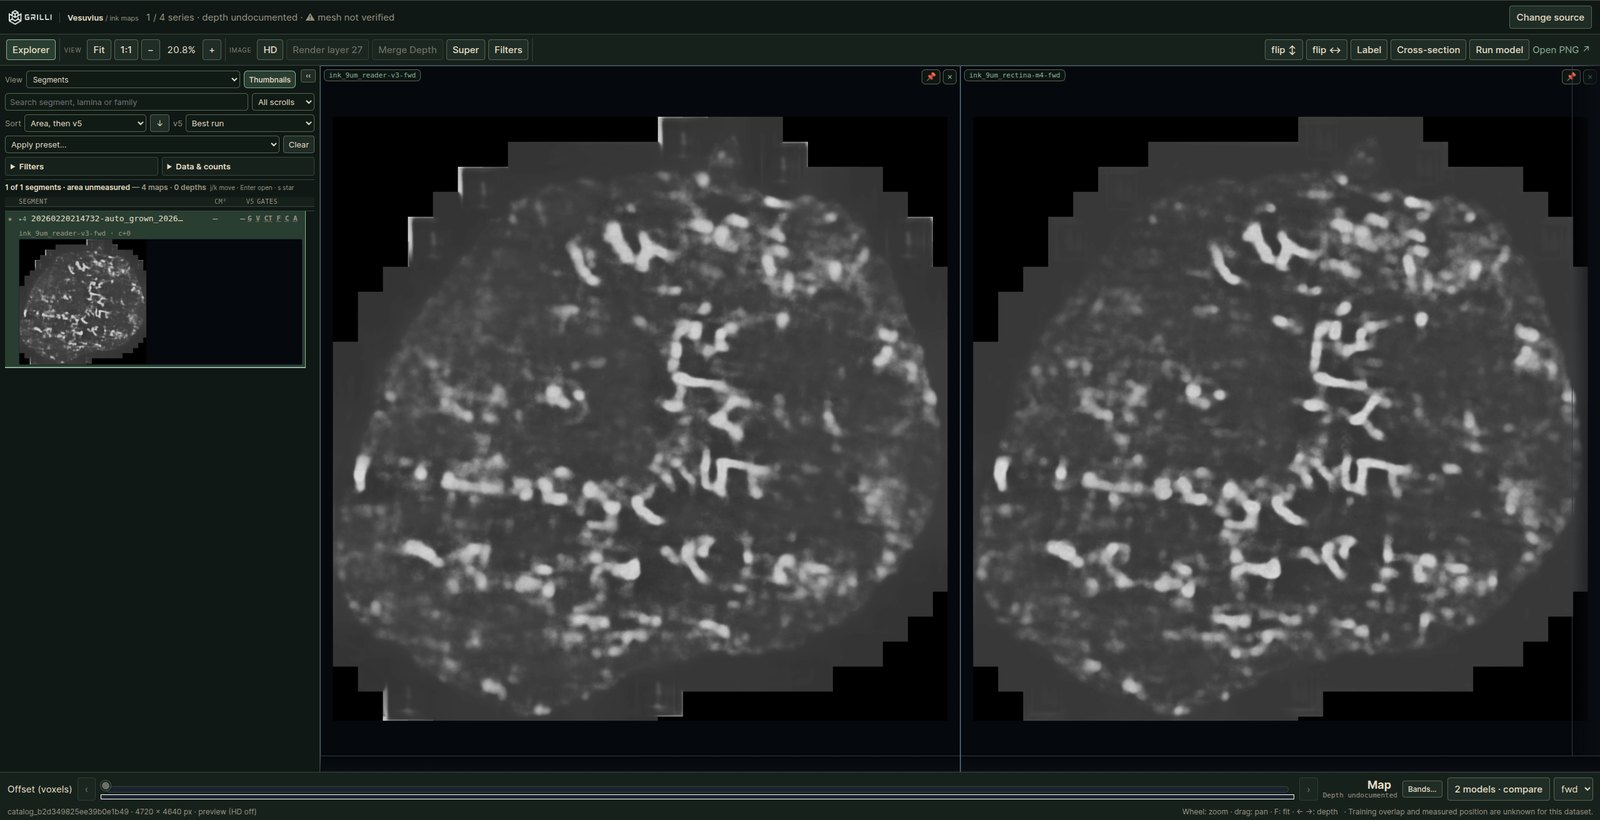
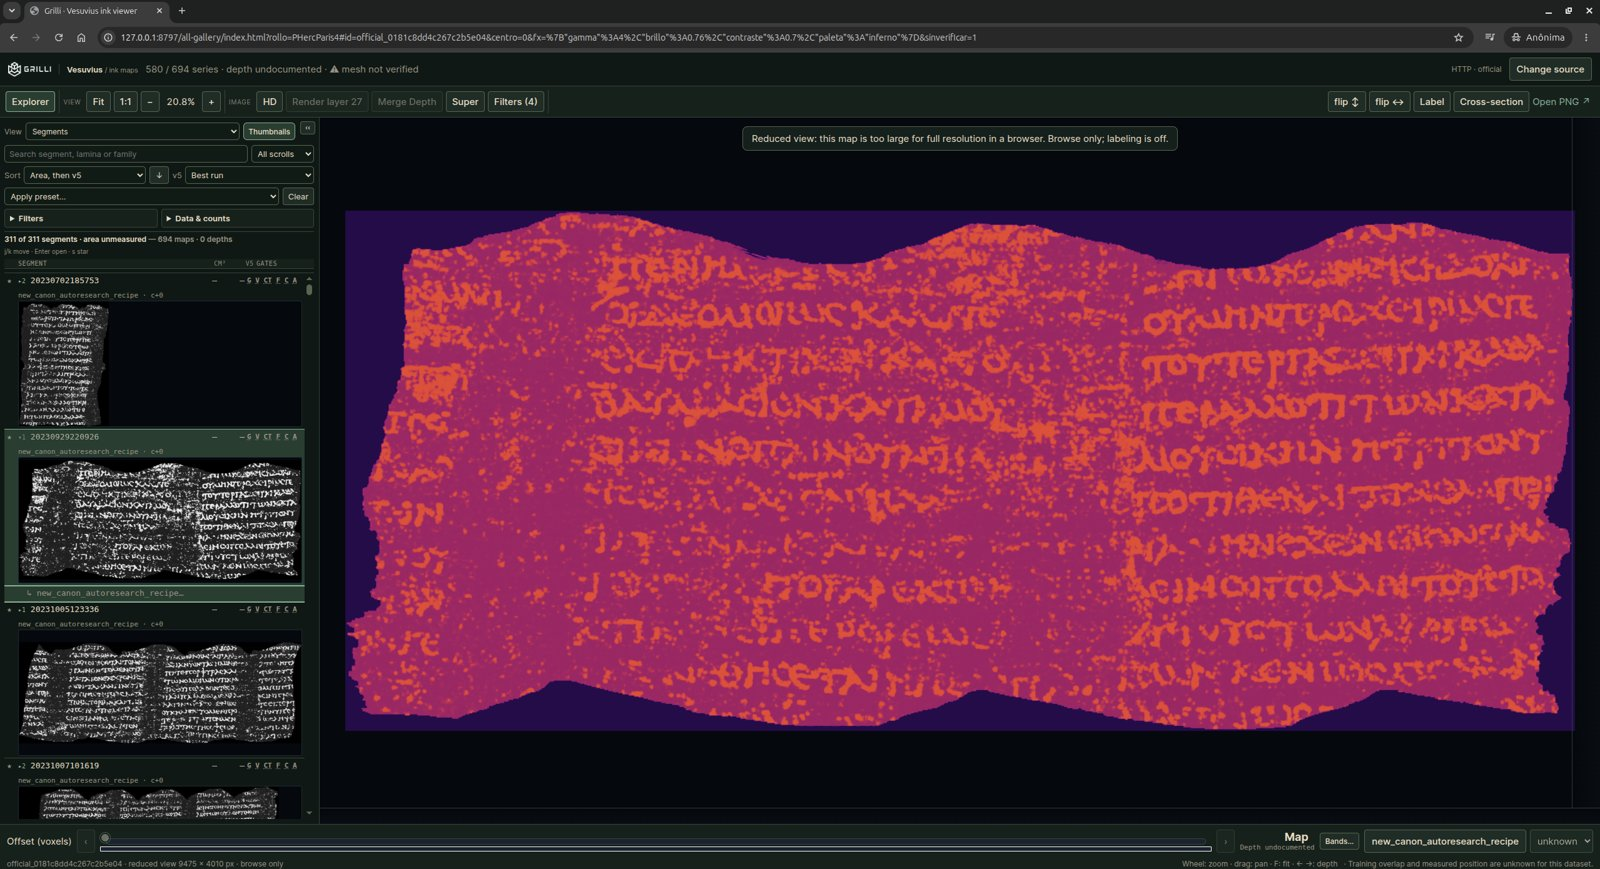
README: official maps source, HF mirror and a new overview screenshot (#15)
Claude-Session: https://claude.ai/code/session_0144cnUSP6PzmSKZZZhrntff

diff --git a/README.md b/README.md
@@ -10,7 +10,7 @@ By Leonel Wainer and Paulo Sergio Camillo. The visual front end of [ink-sdk](htt
 
 Run on macOS, Linux or your own server with local, HTTP or S3 data. No GPU or cloud provider is required. Bring your own prepared dataset; maps, annotations, credentials and machine settings stay outside this repository.
 
-![The viewer comparing two ink models on a PHerc0841 segment](docs/images/ui-overview.jpg)
+![The viewer browsing the official Vesuvius Challenge ink maps, read straight from the open-data bucket](docs/images/ui-overview.jpg)
 
 ## Features
 
@@ -21,6 +21,8 @@ Run on macOS, Linux or your own server with local, HTTP or S3 data. No GPU or cl
 - Browse with lazy thumbnails and previews; annotate on the full-resolution original raster.
 - Run a public ink model on the open segment through [ink-sdk](https://github.com/LimeGS/ink-sdk) (optional) and add its maps to the list.
 - Click a map point to see the CT cross-section through it, with the segment's mesh drawn on top (optional).
+- Browse every ink map the Vesuvius Challenge team publishes, indexed from the open-data bucket's own catalog and refreshed daily; gigapixel maps open as a reduced, browse-only view.
+- Mirror saved annotations to a Hugging Face dataset (optional).
 
 The frontend uses JavaScript, HTML and CSS; Python serves data and validates saves. There is no frontend build step. The viewer does not train models or render 3D meshes; inference runs only through the optional ink-sdk integration, and CT is read only for cross-sections. Missing scores and calibration remain unknown.
 
@@ -87,6 +89,14 @@ ink-viewer --source https://huggingface.co/datasets/pscamillo/ink-viewer-sample/
 ```
 
 Open http://127.0.0.1:8797. The Greek letters show in the `-order-a` maps; switch to `-order-b` to see what the same models give with the depth order flipped. See the [dataset card](https://huggingface.co/datasets/pscamillo/ink-viewer-sample) for credits and licence (CC BY-NC 4.0).
+
+To browse every ink map the team has published instead (around 700 maps from 14 scrolls, read straight from the public bucket, no credentials):
+
+```sh
+ink-viewer --source official
+```
+
+The first start takes a few seconds to build the index from the bucket's `metadata.json`; see [the guide](docs/guide.md#browse-the-official-vesuvius-challenge-maps).
 
 ## Data sources
 
